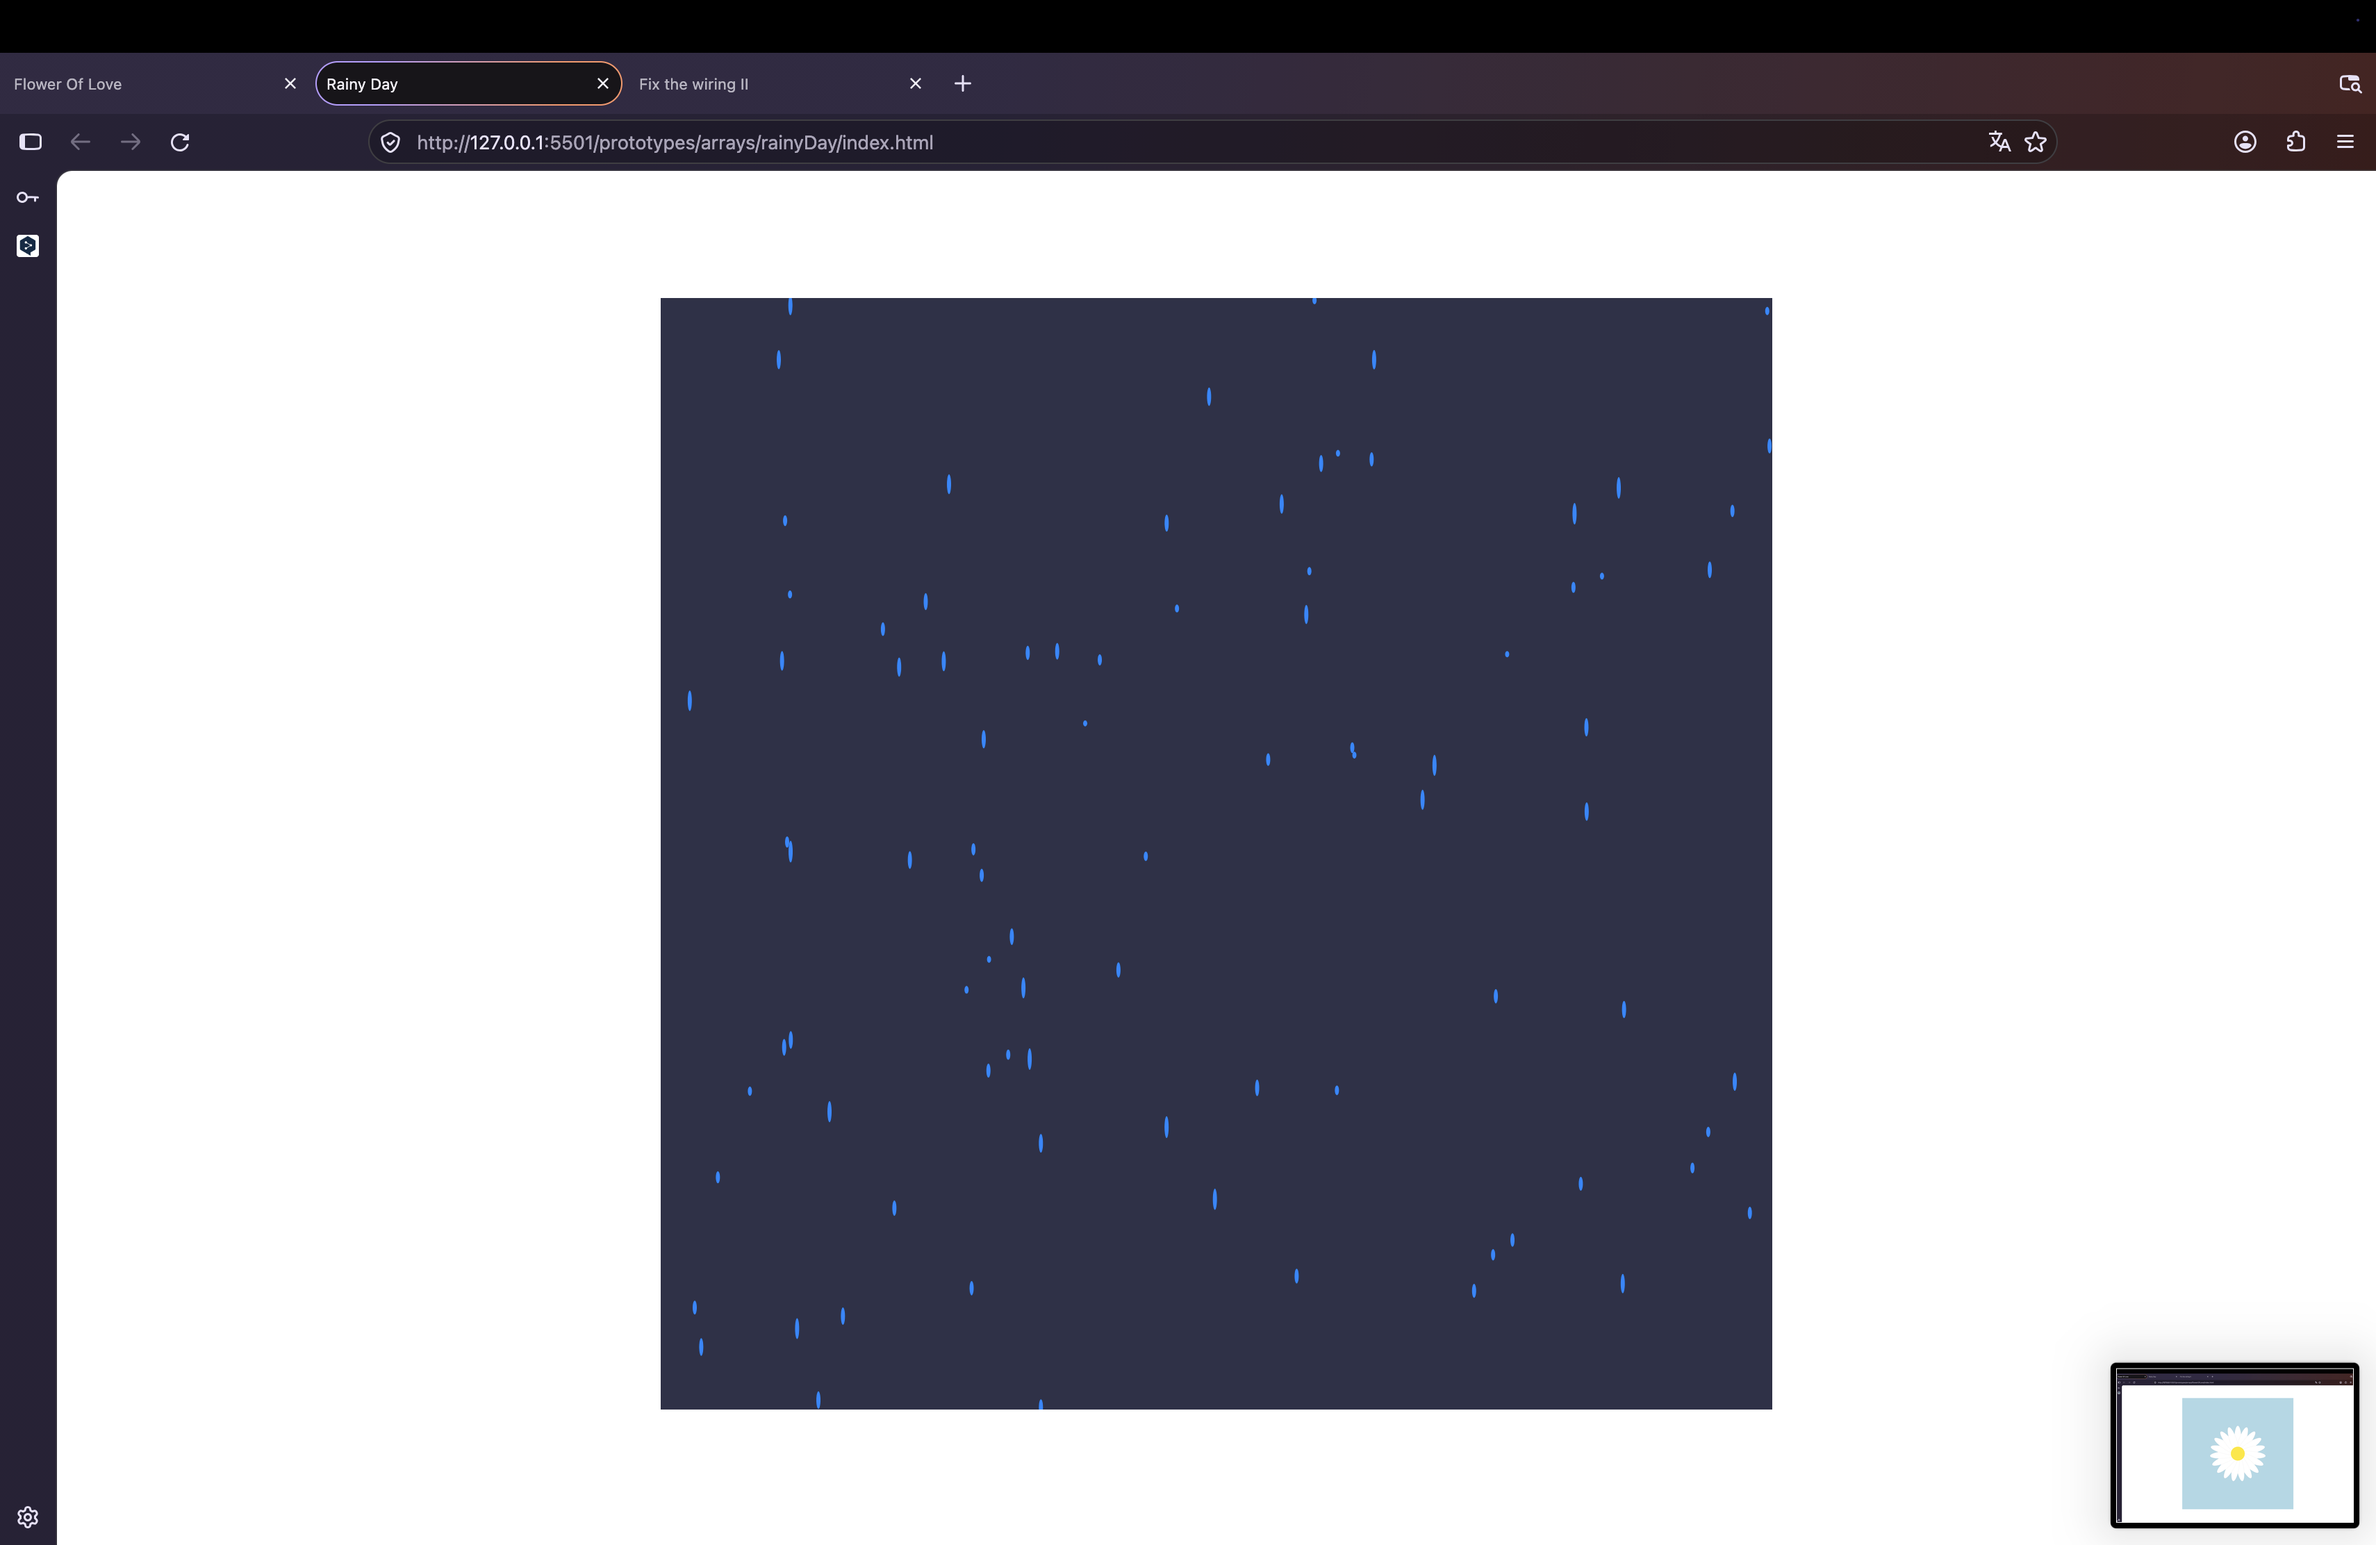
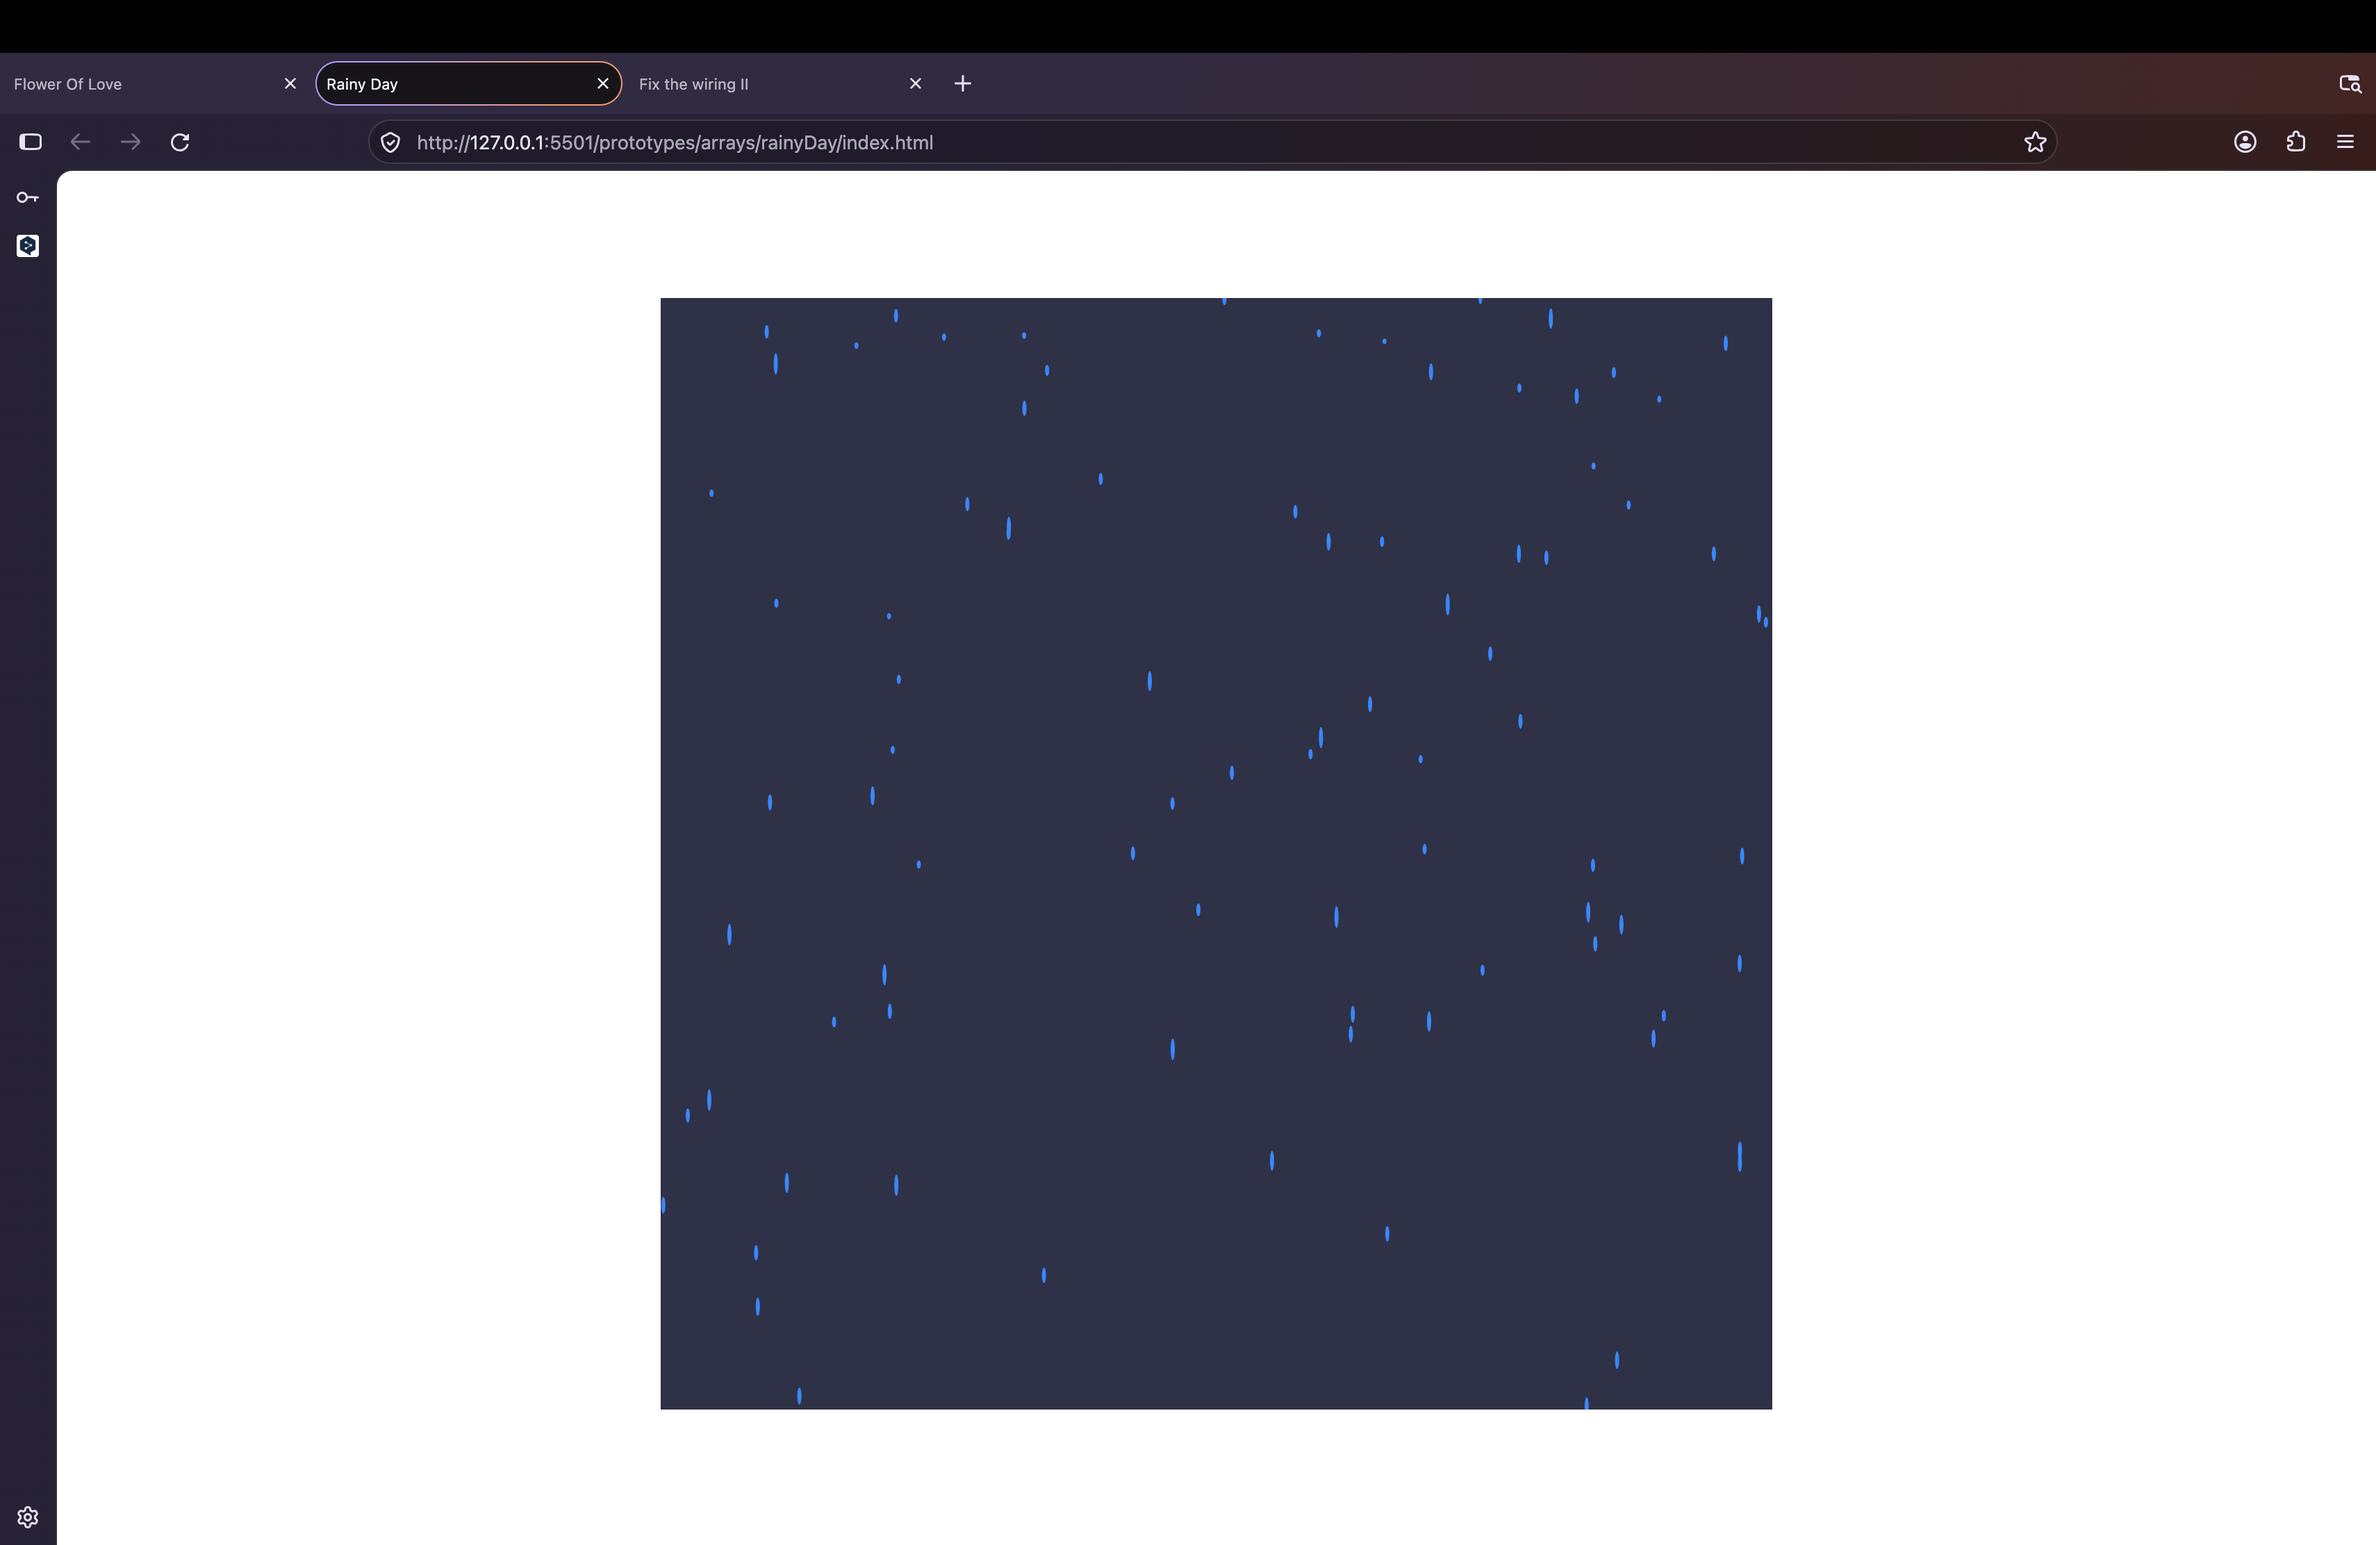
Added images to prototype.md

Changed region(s): [[0.8678, 0.8687, 1.0, 0.9928]]

diff --git a/prototypes/prototypes.md b/prototypes/prototypes.md
@@ -110,6 +110,9 @@ This page is ment to showcase different prototypes made for the Creative Computa
 
 [View online](https://jejed8.github.io/cart253/prototypes/arrays/flowerOfLove/) | [View code](https://jejed8.github.io/cart253/prototypes/arrays/flowerOfLove/js/script.js)
 
+<img src="https://github.com/jejed8/cart253/blob/main/prototypes/arrays/assets/images/flowerOfLove.png?raw=true" height="300" alt="Flower Of Love" >
+
+
 
 ## [Rainy Day](https://github.com/jejed8/cart253/tree/main/prototypes/arrays/rainyDay)
 
@@ -117,9 +120,14 @@ This page is ment to showcase different prototypes made for the Creative Computa
 
 [View online](https://jejed8.github.io/cart253/prototypes/arrays/rainDay/) | [View code](https://jejed8.github.io/cart253/prototypes/arrays/rainyDay/js/script.js)
 
+<img src="https://github.com/jejed8/cart253/blob/main/prototypes/arrays/assets/images/rainyDay.png?raw=true" height="300" alt="Rainy Day" >
+
+
 
 ## [Fix The Wiring II](https://github.com/jejed8/cart253/tree/main/prototypes/arrays/fix-wiring-2)
 
 > A color-matching game where the player connects color matching outlets on opposing sides
 
 [View online](https://jejed8.github.io/cart253/prototypes/arrays/fix-wiring-2/) | [View code](https://jejed8.github.io/cart253/prototypes/arrays/fix-wiring-2/js/script.js)
+
+<img src="https://github.com/jejed8/cart253/blob/main/prototypes/arrays/assets/images/fix-wiring-2.png?raw=true" height="300" alt="Fix the wiring II" >
